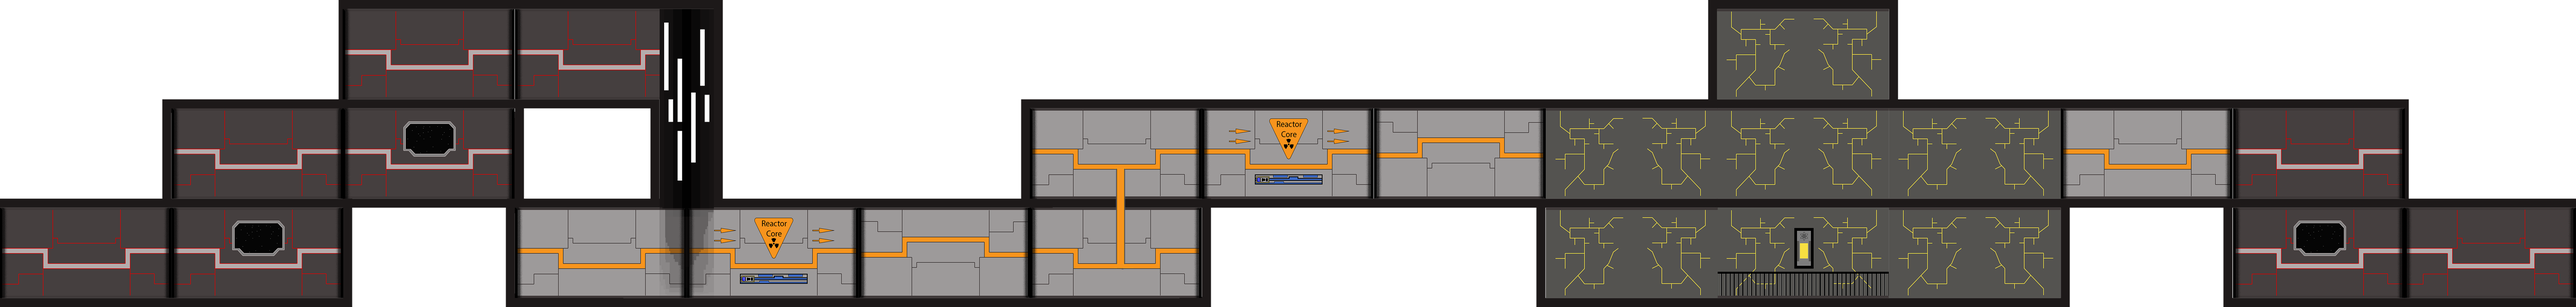
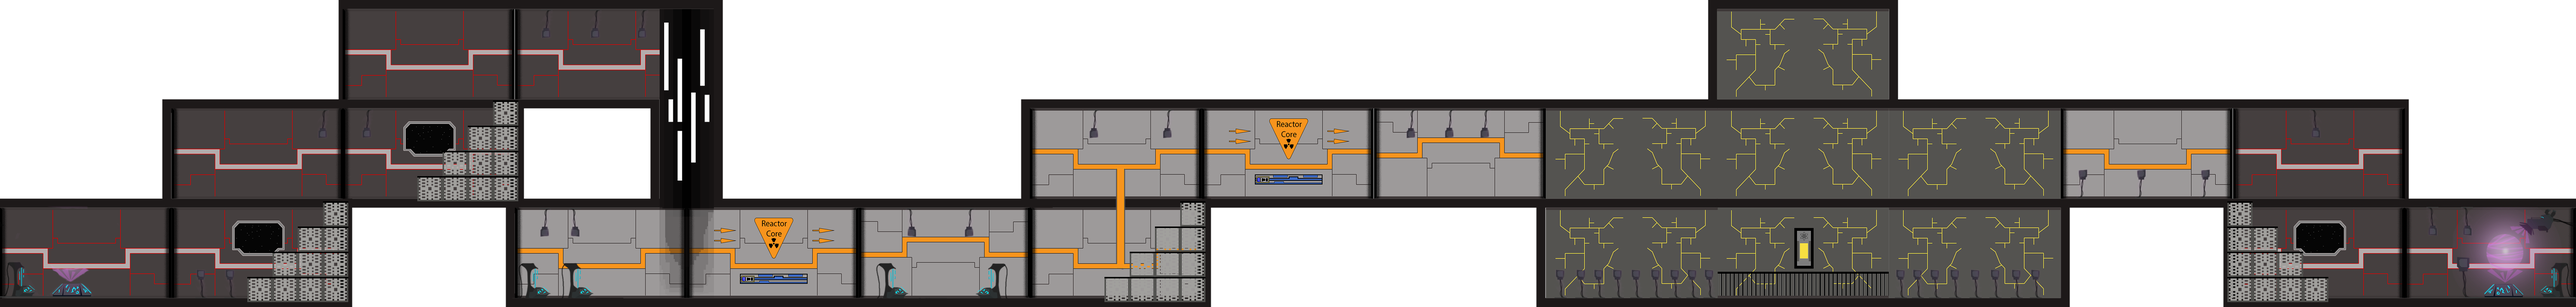
last commit, assignment submitted

diff --git a/src/gamestate/Level2.java b/src/gamestate/Level2.java
@@ -35,7 +35,7 @@ public class Level2 extends State {
 
 	public void init() {
 		map = new Map("/maps/map2.map", timer);
-		player = new Player(3500, 100);
+		player = new Player(-212, 357);
 		levelAnimation = new LevelAnimation(map);
 		levelAnimation.init();
 		player.setMaxJumpSpeed(7.5);
@@ -53,13 +53,6 @@ public class Level2 extends State {
 
 	public void render(Graphics2D g) {
 		
-//		for (int i= (levelAnimation.getWidthFactor(levelAnimation.getBackGround(2).getTileWidth()));i>=0; i--)
-//			 for (int j= (levelAnimation.getHeightFactor(levelAnimation.getBackGround(2).getTileHeight()));j>-1; j--){
-//				g.drawImage(levelAnimation.getBackGround(2),
-//						(int) ((levelAnimation.getBackGround(2).getTileWidth()*i-1) - (State.xOffset*BGParraX)),
-//						(int) ((levelAnimation.getBackGround(2).getTileHeight() *j) - (State.yOffset*BGParraX)), null);
-//			 }
-//		
 		
 	g.drawImage(levelAnimation.getBackGround(2), (int) (0 - (State.xOffset)), (int) (0 - State.yOffset), null);
 		
@@ -88,11 +81,11 @@ public class Level2 extends State {
 			} else {
 				color++;
 			}
-			g.drawString("Key Obtained, Go for Exit!", 0, 60);
+			g.drawString("You have the Artifact! Go to the Portal", 0, 60);
 
 		} else {
 			g.setColor(Color.RED);
-			g.drawString("Key Missing, look for the key!", 0, 60);
+			g.drawString("Artifact Missing.. Search for the artifact.", 0, 60);
 		}
 
 		if (player.win == true) {
@@ -157,5 +150,3 @@ public class Level2 extends State {
 
 	}
 }
-
-// chapter 9 use of timer

diff --git a/src/entities/Player.java b/src/entities/Player.java
@@ -38,7 +38,7 @@ public class Player {
 
 	private double moveSpeed = 5;
 
-	private double maxJumpSpeed = 2;
+	private double maxJumpSpeed = 7.5;
 	private double currentJumpSpeed = maxJumpSpeed;
 
 	private double maxFallSpeed = 8;
@@ -89,7 +89,6 @@ public class Player {
 							if (Collision.playerBlock(
 									new Point(iX + width + (int) State.xOffset + 4, iY + (int) State.yOffset + k - 1),
 									b[i][j])) {
-								//right = false;
 								State.xOffset-=moveSpeed;
 							}
 						}
@@ -99,7 +98,6 @@ public class Player {
 							if (Collision.playerBlock(
 									new Point(iX + (int) State.xOffset + 2, iY + (int) State.yOffset-2 + k), b[i][j])) {
 								State.xOffset+=moveSpeed;
-								//left = false;
 							}
 						}
 
@@ -287,15 +285,9 @@ public class Player {
 		}
 		if (jumping == true | falling == true) {
 			if (FacingRight) {
-				// if(frameCount>=6)
-				// frameCount=RightJumping.size()-1;
-				// g.drawImage(RightJumping.get(frameCount), (int) x, (int) y,
-				// null);
 				g.drawImage(playerAnimation.getPlayerRightJumping(frameCount), (int) x, (int) y, null);
 			}
 			if (FacingLeft) {
-				// if(frameCount>=6)
-				// frameCount=LeftJumping.size()-1;
 				g.drawImage(playerAnimation.getPlayerLeftJumping(frameCount), (int) x, (int) y, null);
 			}
 		}

diff --git a/src/gamestate/OptionsMenu.java b/src/gamestate/OptionsMenu.java
@@ -18,16 +18,10 @@ public class OptionsMenu extends State
 	}
 
 	@Override
-	public void init()
-	{
-		
-	}
+	public void init(){}
 
 	@Override
-	public void update()
-	{
-		
-	}
+	public void update(){}
 
 	@Override
 	public void render(Graphics2D g)
@@ -120,20 +114,9 @@ public class OptionsMenu extends State
 	}
 
 	@Override
-	public void keyReleased(KeyEvent e, int k)
-	{
-		
-	}
-
+	public void keyReleased(KeyEvent e, int k){}
 	@Override
-	public void mousePressed(MouseEvent e)
-	{
-		
-	}
-
+	public void mousePressed(MouseEvent e){}
 	@Override
-	public void mouseReleased(MouseEvent e)
-	{
-		
-	}
+	public void mouseReleased(MouseEvent e){}
 }

diff --git a/src/csit111project/Game.java b/src/csit111project/Game.java
@@ -1,3 +1,16 @@
+/*
+ * Planrun
+ * Written by Cristian Novac and Sammy Samcough
+ * Art by Ryan Hoyt and Greg Ursitti
+ * 
+ * Key Layout:
+ * 		Movement: W(Jump) A(Left) D(Right)
+ *  	Menu selection: ArrowKeys or W/S,  Space/Enter
+ *  	Other: 	Escape = menu/quit
+ *  			N = toggle noclip
+ *  			T = toggle show hitboxes
+ */
+
 package csit111project;
 import javax.swing.JFrame;
 

diff --git a/src/mapping/Map.java b/src/mapping/Map.java
@@ -124,4 +124,7 @@ public class Map {
 		this.timer = timer;
 	}
 	
+	//Thank you for looking the code :) If you saw this and have any tips for my future projects please let me know! -Cristian Novac
+	//git repository with stats on the project can be found at https://github.com/no-vac/csit111project
+	
 }
